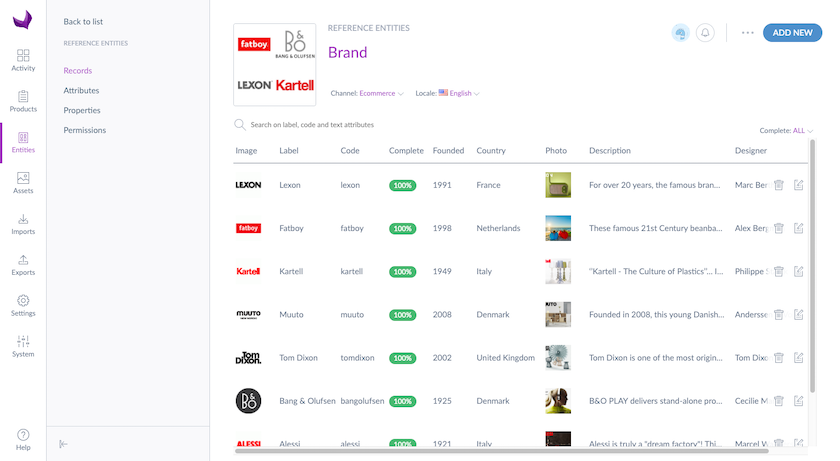
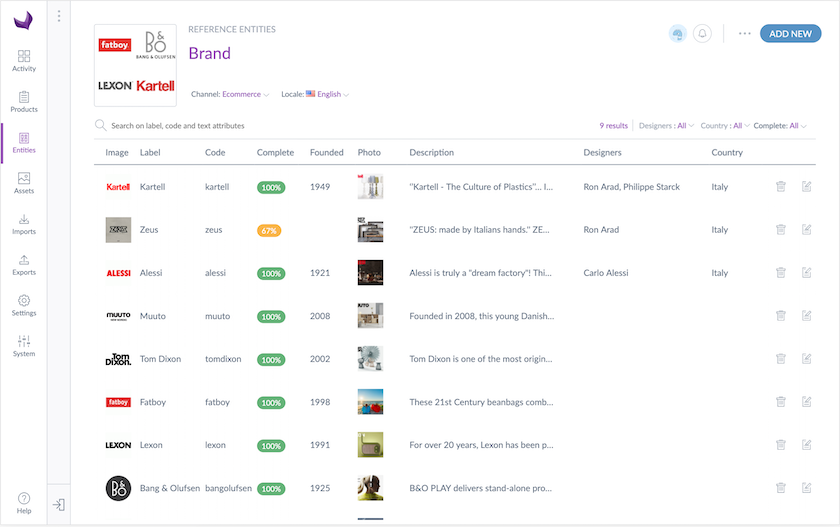
Add images

diff --git a/content/md/products-super-power/enrich-your-reference-entity-records.md b/content/md/products-super-power/enrich-your-reference-entity-records.md
@@ -43,12 +43,12 @@ The records grid is quite different than the products' one. Thereafter are the s
 - Finally, the grid can display up to 500 results using an **infinite scroll**. If you have more results, please filter your search. When reaching this limit, the grid displays the message *"You just scrolled through the first 500 results out of 1450 records. To see more, try with more specific search criteria."*
 
 ::: info
-In the records grid, you will see only certain types of attributes: code, text and image.
+In the records grid in 3.0, you will see only certain types of attributes: code, text and image.  
 _Since 3.1_, the values of the attributes types single/multiple options and reference entity single/multiple links are also displayed in the records grid.
 :::
 
 ::: info
-The order of the columns in the records grid is "Image, Label, Code, Completeness", the other attributes are then ordered according to their order of creation in the "Attributes" tab.
+The order of the columns in the records grid is "Image, Label, Code, Complete", the other attributes are then ordered according to their order of creation in the "Attributes" tab.
 :::
 
 Of course, you can still edit or delete a record thanks to the buttons at the end of each line.
@@ -80,11 +80,13 @@ To know how to define the required attributes for the completeness, please take 
 
 ## Filter on options and reference entity links (_since 3.1_)
 
-_Since 3.1_ we added the ability to filter on attributes types single/multiple options or reference entity single/multiple links in the records grid. It allows an exact search to find the records with a specific value (option value or link to a record).
+_Since 3.1_, we added the ability to filter on attributes types single/multiple options or reference entity single/multiple links in the records grid. It allows an exact search to find the records with a specific value (option value or link to a record).
 
 For examples:
 - If a "Brand" reference entity has a "Designers" attribute linked to a "Designer" reference entity, you can search for all brands with the designer "Ron Arad".
 - If a "Brand" reference entity has a "Country" attribute with a list of options, you can search for brands with the country "Italy".
+
+![Records grid](../img/Records_filter_options.png)
 
 The operator is an "in list" operator. If you are looking for the brand with the designer "Philippe Starck" OR "Ron Arad", the brands with the designer "Philippe Starck" OR the designer "Ron Arad" will be displayed.
 
